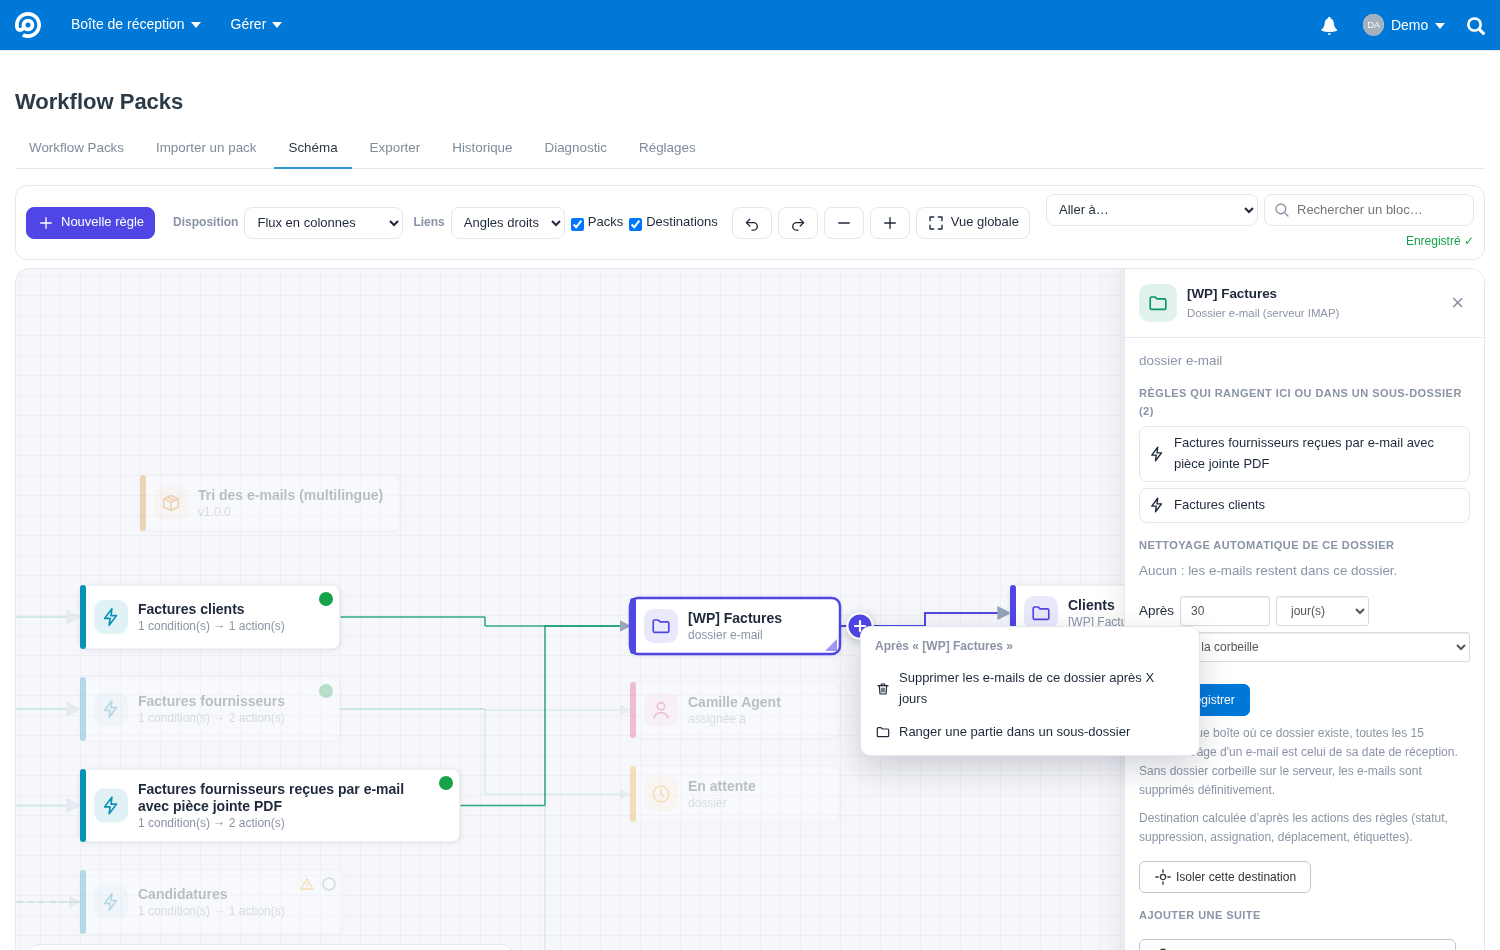
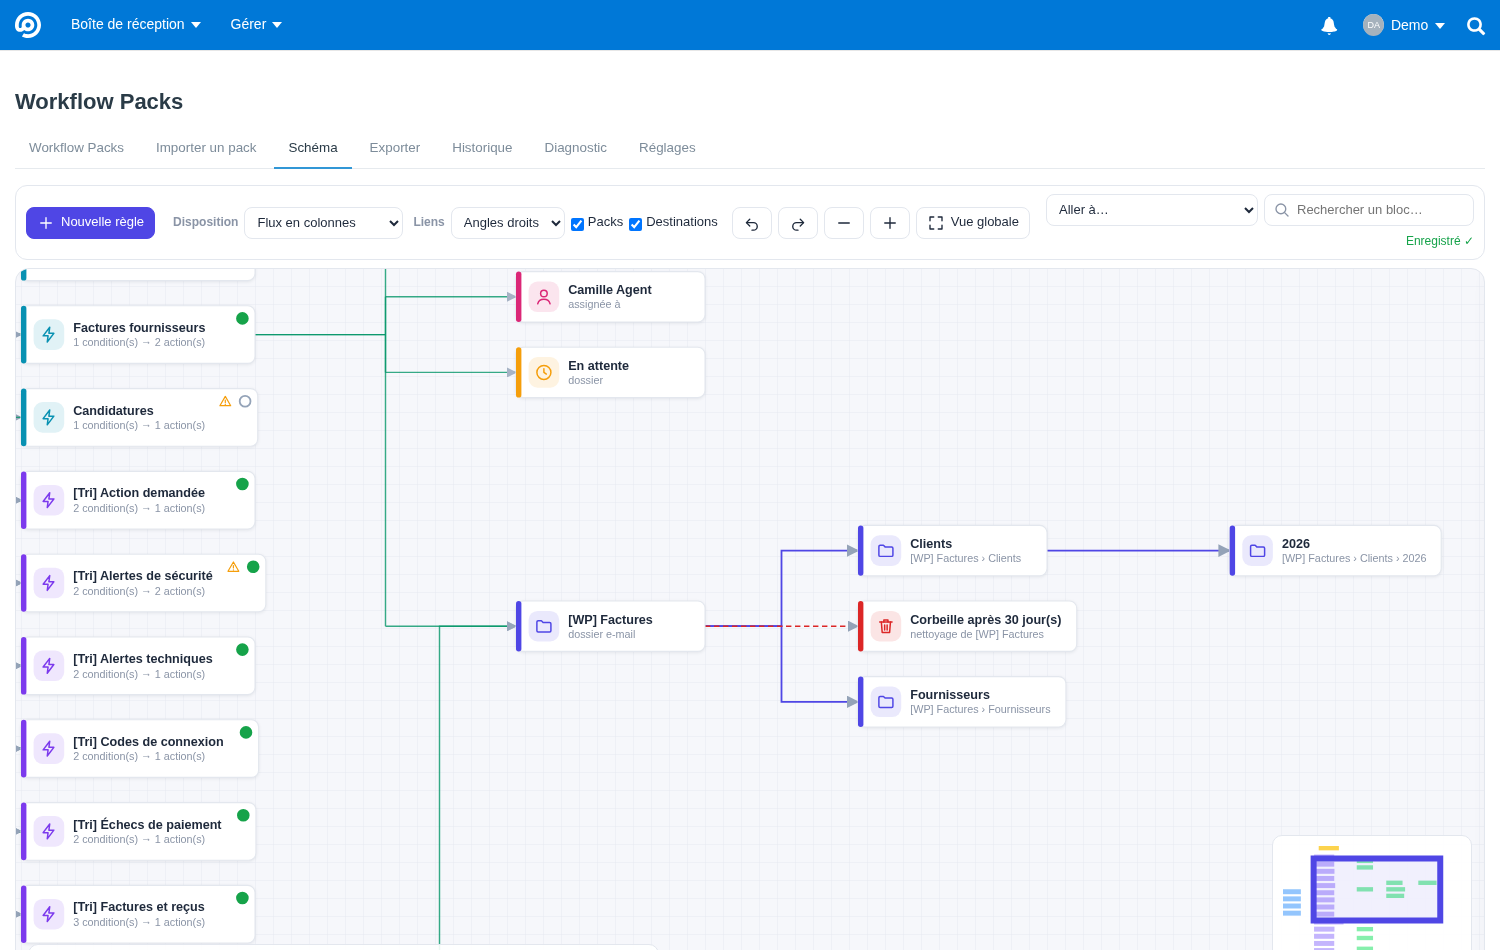
1.17.0 : le nettoyage d'un dossier est un bloc à part dans le schéma
Bloc rouge avec une corbeille (« Corbeille après 30 jours » / « Suppression
après 30 jours »), après son dossier, relié par un trait rouge en pointillé,
entrée dans la légende ; un clic ouvre son réglage. Clé dest:clean:…, dont la
position est enregistrée comme celle des autres blocs.

diff --git a/WorkflowPacks/Public/js/graph/inspector.js b/WorkflowPacks/Public/js/graph/inspector.js
@@ -173,6 +173,7 @@
 
     Inspector.prototype.show_dest = function (node) {
         var app = this.app, t = this.t;
+        if (node.dest === 'cleanup') { return this.show_cleanup(node); }
         var body = this.frame(node, t['kind_dest_' + node.dest] || t.kind_dest);
         if (node.warn) { body.appendChild(h('p', { class: 'wpg-warn-text' }, [icon('warn'), ' ' + node.warn])); }
         // e-mail folders: the rules filing into this folder or one of its sub-folders
@@ -187,6 +188,16 @@
         if (node.dest === 'imap' && node.folder) { this.retention(body, node); }
         body.appendChild(h('p', { class: 'wpg-hint', text: t.dest_hint }));
         body.appendChild(h('div', { class: 'wpg-ins-actions' }, [this.button(t.focus_dest, 'focus', function () { app.focusOn(node.key); })]));
+    };
+
+    /** Automatic clean-up of an e-mail folder (its own block, after the folder): its setting, the folder. */
+    Inspector.prototype.show_cleanup = function (node) {
+        var app = this.app, t = this.t;
+        var body = this.frame(node, t.kind_dest_cleanup);
+        this.retention(body, node);
+        if (node.parent && app.model.nodes[node.parent]) {
+            body.appendChild(h('div', { class: 'wpg-ins-actions' }, [this.button(t.cleanup_folder, 'folder', function () { app.select(node.parent); })]));
+        }
     };
 
     /**

diff --git a/WorkflowPacks/Public/js/graph/next.js b/WorkflowPacks/Public/js/graph/next.js
@@ -132,8 +132,9 @@
     Next.prototype.run = function (node, mailbox, edge, run) {
         var app = this.app;
         if (run.retention) {
-            // the clean-up of the folder, in its panel
-            app.select(node.key);
+            // the clean-up of the folder, in its panel (its own block when it is already set)
+            var clean = 'dest:clean:' + node.key.slice('dest:'.length);
+            app.select(app.model.nodes[clean] ? clean : node.key);
             setTimeout(function () {
                 var input = app.root.querySelector('.wpg-retention input');
                 if (input) { input.focus(); input.select(); input.scrollIntoView({ block: 'center' }); }

diff --git a/WorkflowPacks/Public/js/graph/icons.js b/WorkflowPacks/Public/js/graph/icons.js
@@ -38,7 +38,7 @@
         if (node.kind === 'mailbox') { return 'inbox'; }
         if (node.kind === 'pack') { return 'package'; }
         if (node.kind === 'rule') { return node.type === 'manual' ? 'hand' : 'zap'; }
-        return { closed: 'closed', pending: 'pending', active: 'active', spam: 'spam', deleted: 'deleted', person: 'person', tag: 'tag', mailbox: 'mailbox' }[node.dest] || 'folder';
+        return { closed: 'closed', pending: 'pending', active: 'active', spam: 'spam', deleted: 'deleted', cleanup: 'deleted', person: 'person', tag: 'tag', mailbox: 'mailbox' }[node.dest] || 'folder';
     }
 
     /** <symbol> elements in the <defs> of the diagram. */

diff --git a/WorkflowPacks/Public/css/graph.css b/WorkflowPacks/Public/css/graph.css
@@ -270,3 +270,8 @@
 .wpg-next-plus { stroke: #fff; stroke-width: 2.2; stroke-linecap: round; pointer-events: none; }
 .wpg-next-list { flex-direction: column; align-items: stretch; }
 .wpg-next-list .btn { text-align: left; white-space: normal; }
+
+/* automatic clean-up of an e-mail folder: a block of its own after the folder, red, with a trash icon */
+.wpg-node.dest-cleanup, .wpg-ins-head.dest-cleanup { --c: var(--c-spam); }
+.wpg-edge.kind-cleanup .wpg-line { stroke: var(--c-spam); stroke-dasharray: 6 4; }
+.lg-cleanup::before { border-color: var(--c-spam); border-top-style: dashed; }

diff --git a/WorkflowPacks/Tests/Feature/ImapFolderTest.php b/WorkflowPacks/Tests/Feature/ImapFolderTest.php
@@ -306,7 +306,7 @@ class ImapFolderTest extends TestCase
             \Modules\WorkflowPacks\Entities\Retention::first()->metric, \Modules\WorkflowPacks\Entities\Retention::first()->mode,
         ], 'folder written as in the rules');
 
-        // diagram: shown on the folder block; settings: listed with a "Remove" button
+        // diagram: a clean-up block of its own after the folder; settings: listed with a "Remove" button
         $class = Bridge::modelClass();
         $wf = new $class();
         $wf->mailbox_id = $a->id;
@@ -317,9 +317,19 @@ class ImapFolderTest extends TestCase
         $wf->conditions = [[['type' => 'subject', 'operator' => 'contains', 'value' => 'promo']]];
         $wf->actions = [[['type' => FolderPath::ACTION, 'value' => 'Newsletters/Promos']]];
         $wf->save();
-        $node = collect($this->actingAs($admin)->getJson(route('workflowpacks.graph.data'))->json()['nodes'])->where('dest', 'imap')->firstWhere('label', 'Promos');
+        $graph = $this->actingAs($admin)->getJson(route('workflowpacks.graph.data'))->json();
+        $node = collect($graph['nodes'])->where('dest', 'imap')->firstWhere('label', 'Promos');
         $this->assertSame(['number' => 7, 'metric' => 'd', 'mode' => 'trash'], $node['retention']);
-        $this->assertStringContainsString(__('workflowpacks::messages.retention_short', ['delay' => __('workflowpacks::texts.timer_d', ['count' => 7])]), $node['sub']);
+        $clean = collect($graph['nodes'])->firstWhere('dest', 'cleanup');
+        $this->assertSame([$node['key'], 'Newsletters/Promos', $node['depth'] + 1], [$clean['parent'], $clean['folder'], $clean['depth']]);
+        $this->assertSame(__('workflowpacks::messages.cleanup_label_trash', ['delay' => __('workflowpacks::texts.timer_d', ['count' => 7])]), $clean['label']);
+        $this->assertNotNull(collect($graph['edges'])->first(function ($e) use ($node, $clean) {
+            return $e['kind'] === 'cleanup' && $e['from'] === $node['key'] && $e['to'] === $clean['key'];
+        }), 'linked to its folder');
+        $this->assertSame(1, collect($graph['nodes'])->where('dest', 'cleanup')->count(), 'only the folder that has one');
+        // its position is saved like the other blocks
+        $this->actingAs($admin)->postJson(route('workflowpacks.graph.layout'), ['positions' => [$clean['key'] => [120, 40]]])->assertStatus(200);
+        $this->assertSame([120, 40], $this->actingAs($admin)->getJson(route('workflowpacks.graph.data'))->json()['layout']['positions'][$clean['key']] ?? null);
         $this->seeIn($this->actingAs($admin)->get(route('settings', ['section' => 'workflowpacks'])), e(__('workflowpacks::messages.retention_remove_btn')));
 
         $this->actingAs($admin)->post(route('workflowpacks.retention.remove'), ['folder' => 'Newsletters/Promos'])->assertRedirect();

diff --git a/WorkflowPacks/Services/Graph/GraphBuilder.php b/WorkflowPacks/Services/Graph/GraphBuilder.php
@@ -104,6 +104,20 @@ class GraphBuilder
         foreach ($sends as $edge) {
             $edges[] = $edge;
         }
+        // automatic clean-up of an e-mail folder: a block of its own, after the folder ("Deleted after 30 days")
+        foreach ($nodes as $key => $node) {
+            if (($node['dest'] ?? '') !== 'imap' || empty($node['retention'])) {
+                continue;
+            }
+            $r = $node['retention'];
+            // a destination too: "dest:" keys are the ones whose position is saved (LayoutStore::KEY)
+            $cleanKey = 'dest:clean:'.substr($key, strlen('dest:'));
+            $nodes[$cleanKey] = ['key' => $cleanKey, 'kind' => 'dest', 'dest' => 'cleanup', 'folder' => $node['folder'], 'retention' => $r,
+                'parent' => $key, 'depth' => ($node['depth'] ?? 0) + 1,
+                'label' => __('workflowpacks::messages.cleanup_label_'.($r['mode'] === 'delete' ? 'delete' : 'trash'), ['delay' => Timer::label($r)]),
+                'sub' => __('workflowpacks::messages.cleanup_sub', ['folder' => $node['label']])];
+            $edges[] = ['from' => $key, 'to' => $cleanKey, 'kind' => 'cleanup'];
+        }
 
         // links whose rule was deleted from Workflows since the import
         $existing = $workflows->pluck('id')->map(function ($id) {
@@ -202,7 +216,7 @@ class GraphBuilder
         $path = '';
         foreach ($parsed['segments'] as $i => $segment) {
             $path .= ($i ? '/' : '').$segment;
-            // automatic clean-up set for this folder: shown on the block, editable in its side panel
+            // automatic clean-up set for this folder: a block of its own after it (see build()), editable in its panel
             $row = $this->retention->get($path);
             $retention = $row ? ['number' => (int) $row->number, 'metric' => $row->metric, 'mode' => $row->mode] : null;
             $levels[] = [
@@ -212,8 +226,7 @@ class GraphBuilder
                 'kind'   => 'dest',
                 'dest'   => 'imap',
                 'label'  => $i ? $segment : $prefix.' '.$segment,
-                'sub'    => ($i ? FolderPath::label($path, $prefix) : __('workflowpacks::messages.dest_imap'))
-                    .($retention ? ' · '.__('workflowpacks::messages.retention_short', ['delay' => Timer::label($retention)]) : ''),
+                'sub'    => $i ? FolderPath::label($path, $prefix) : __('workflowpacks::messages.dest_imap'),
                 'depth'  => $i,
                 'warn'   => $warn,
                 'action' => $type,

diff --git a/WorkflowPacks/Resources/views/graph.blade.php b/WorkflowPacks/Resources/views/graph.blade.php
@@ -99,6 +99,7 @@
             <span class="lg lg-modified">{{ __('workflowpacks::graph.legend_modified') }}</span>
             <span class="lg lg-missing">{{ __('workflowpacks::graph.legend_missing') }}</span>
             <span class="lg lg-sends">{{ __('workflowpacks::graph.legend_sends') }}</span>
+            <span class="lg lg-cleanup">{{ __('workflowpacks::graph.legend_cleanup') }}</span>
         </div>
         <div class="wpg-toasts" aria-live="polite"></div>
     </div>

diff --git a/WorkflowPacks/Resources/lang/de/graph.php b/WorkflowPacks/Resources/lang/de/graph.php
@@ -209,4 +209,7 @@ return [
     'next_name_subfolder'      => 'Unterordner von :folder',
     'next_name_after_delete'   => 'Papierkorb für „:status“ nach 30 Tagen',
     'next_name_after_close'    => '„:status“ nach 7 Tagen schließen',
+    'kind_dest_cleanup'        => 'Automatische Bereinigung des Ordners',
+    'legend_cleanup'           => 'automatische Bereinigung',
+    'cleanup_folder'           => 'Ordner anzeigen',
 ];

diff --git a/WorkflowPacks/Resources/lang/fr/graph.php b/WorkflowPacks/Resources/lang/fr/graph.php
@@ -210,4 +210,7 @@ return [
     'next_name_subfolder'      => 'Sous-dossier de :folder',
     'next_name_after_delete'   => 'Corbeille pour « :status » après 30 jours',
     'next_name_after_close'    => 'Fermer « :status » après 7 jours',
+    'kind_dest_cleanup'        => 'Nettoyage automatique du dossier',
+    'legend_cleanup'           => 'nettoyage automatique',
+    'cleanup_folder'           => 'Voir le dossier',
 ];

diff --git a/WorkflowPacks/Resources/lang/it/graph.php b/WorkflowPacks/Resources/lang/it/graph.php
@@ -209,4 +209,7 @@ return [
     'next_name_subfolder'      => 'Sottocartella di :folder',
     'next_name_after_delete'   => 'Cestino per «:status» dopo 30 giorni',
     'next_name_after_close'    => 'Chiudi «:status» dopo 7 giorni',
+    'kind_dest_cleanup'        => 'Pulizia automatica della cartella',
+    'legend_cleanup'           => 'pulizia automatica',
+    'cleanup_folder'           => 'Mostra la cartella',
 ];

diff --git a/WorkflowPacks/Resources/lang/es/graph.php b/WorkflowPacks/Resources/lang/es/graph.php
@@ -209,4 +209,7 @@ return [
     'next_name_subfolder'      => 'Subcarpeta de :folder',
     'next_name_after_delete'   => 'Papelera para «:status» tras 30 días',
     'next_name_after_close'    => 'Cerrar «:status» tras 7 días',
+    'kind_dest_cleanup'        => 'Limpieza automática de la carpeta',
+    'legend_cleanup'           => 'limpieza automática',
+    'cleanup_folder'           => 'Ver la carpeta',
 ];

diff --git a/WorkflowPacks/Resources/lang/en/graph.php b/WorkflowPacks/Resources/lang/en/graph.php
@@ -210,4 +210,7 @@ return [
     'next_name_subfolder'      => 'Sub-folder of :folder',
     'next_name_after_delete'   => 'Deleted folder for ":status" after 30 days',
     'next_name_after_close'    => 'Close ":status" after 7 days',
+    'kind_dest_cleanup'        => 'Automatic clean-up of the folder',
+    'legend_cleanup'           => 'automatic clean-up',
+    'cleanup_folder'           => 'Show the folder',
 ];
